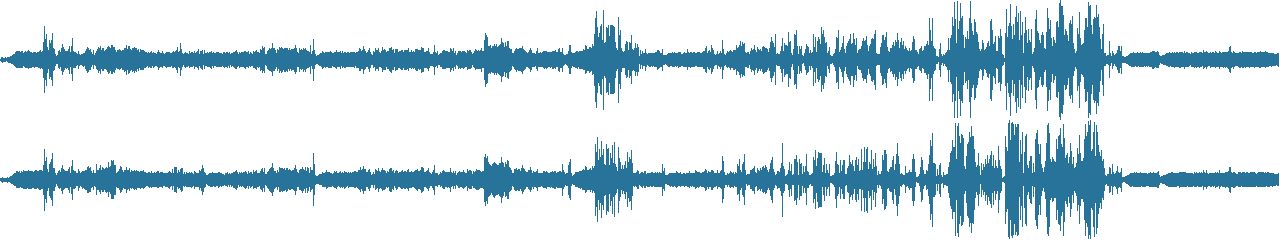
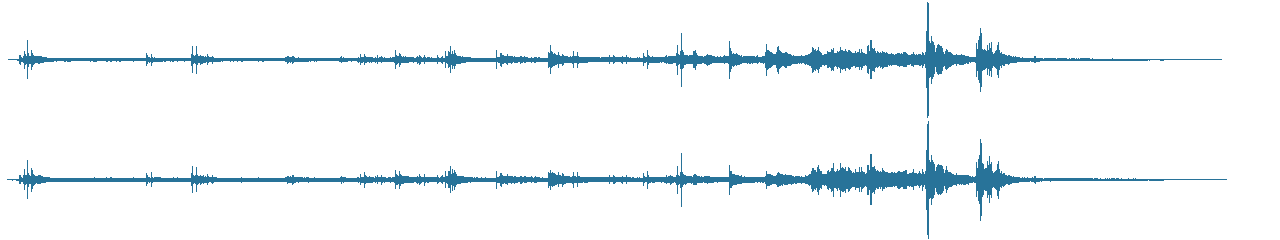
Still working on the audio player

Changed region(s): [[0.0, 0.525, 1.0, 0.9917], [0.0, 0.0292, 1.0, 0.4667]]

diff --git a/AudioPlayer.py b/AudioPlayer.py
@@ -55,33 +55,43 @@ class SoundPlayer(QRunnable):
             self.is_remote = True
             self.is_segment = True
 
-    def new_sound_local(self):
+    def handle_new_sound_local(self):
         self.path = self.current_result.path
         self.preload(self.current_result, self.pixel_time_conversion_rate)
+        self.play()
 
-    def new_sound_remote(self, path, is_segment=False):
+    def handle_new_sound_remote(self, path):
         self.path = path
-        self.preload(self.current_result, self.pixel_time_conversion_rate, is_segment)
+        self.preload(self.current_result, self.pixel_time_conversion_rate)
+        self.play()
 
     def handle(self, result, conversion_rate, path=None, segment=False):
         if segment:
-            print('segment')
-            self.path = path
-            self.preload(result, conversion_rate, segment)
-            self.play()
-        if not self.current_result == result or not self.started:
+            self.handle_segment(path, result, conversion_rate)
+        elif not self.current_result == result or not self.started:
             self.pixel_time_conversion_rate = conversion_rate
             self.current_result = result
             if isinstance(result, SearchResults.Local):
-                self.new_sound_local()
+                self.handle_new_sound_local()
             else:
-                self.new_sound_remote(path, segment)
+                self.handle_new_sound_remote(path)
         elif self.ended and self.current_result == result:
+            print(self.current_result, result, self.ended)
             self.restart()
         elif self.is_paused:
             self.unpause()
         else:
             self.pause()
+
+    def handle_segment(self, path, result, conversion_rate):
+        self.pixel_time_conversion_rate = conversion_rate
+        self.current_result = result
+        self.path = path
+        self.preload(self.current_result, self.pixel_time_conversion_rate, True)
+        self.play()
+
+    def handle_download_complete(self, path):
+        self.reload(path=path, is_complete=True)
 
     @pyqtSlot()
     def run(self):
@@ -95,8 +105,7 @@ class SoundPlayer(QRunnable):
                 stop_time = time.time()
                 time_elapsed = (stop_time - start_time)*1000
                 if self.is_playing:
-                    self.current_time = self.current_time + time_elapsed
-                    self.signals.time_changed.emit(self.current_time)
+                    self.set_current_time(self.current_time + time_elapsed)
                 if self.current_time >= self.length:
                     self.ended = True
             if not self.is_playing or self.ended:
@@ -119,9 +128,17 @@ class SoundPlayer(QRunnable):
         return buf.value
 
     def restart(self):
-        self.pause()
-        self.goto(0)
-        self.play()
+        print('restart')
+        if self.filetype in self.windll_list:
+            self.stop()
+            self.load_into_windll()
+            self.goto(0)
+            self.play()
+        else:
+            self.stop()
+            self.reload_into_pygame()
+            self.goto(0)
+            self.play()
 
     def preload(self, result, conversion_rate, segment=False):
         busy = self.get_busy()
@@ -129,10 +146,10 @@ class SoundPlayer(QRunnable):
             self.stop()
         if not self.is_remote:
             self.load(self.path, result.duration, conversion_rate, result.sample_rate)
-            self.play()
         else:
             f = TinyTag.get(self.path)
             sample_rate = f.samplerate
+            print(sample_rate)
             if segment:
                 print('segment 2')
                 self.segment_length = f.duration
@@ -145,111 +162,129 @@ class SoundPlayer(QRunnable):
     def load(self, path, length, pixel_time_rate, sample_rate, block=False, current_time=0):
         self.path = path
         if current_time > 0:
-            self.current_time = current_time
+            self.set_current_time(current_time)
         else:
-            self.current_time = 0
+            self.set_current_time(0)
             self.signals.reset_cursor.emit()
         self.filetype = os.path.splitext(path)[1].lower()
-        self.alias = 'playsound_' + str(random())
         self.length = length
         self.pixel_time_conversion_rate = pixel_time_rate
         if self.filetype in self.windll_list:
-            from time import sleep
-
-            print('open "' + self.path + '" alias', self.alias)
-            self.win_command('open "' + self.path + '" alias', self.alias)
-            self.win_command('set', self.alias, 'time format milliseconds')
-            durationInMS = self.win_command('status', self.alias, 'length')
-
-            if block:
-                sleep(float(durationInMS) / 1000.0)
+            self.load_into_windll(block)
         elif self.filetype in self.pygame_list:
-            frequency = int(sample_rate)
-            pygame.mixer.quit()
-            pygame.mixer.init(frequency, -16, 2, 512)
-            try:
-                pygame.mixer.music.load(self.path)
-            except pygame.error:
-                self.signals.error.emit("Couldn't play this file!  It may be that it's corrupted.  "
-                                        "Try downloading it again.")
+            self.load_into_pygame(sample_rate)
+
+    def load_into_windll(self, block=False):
+        from time import sleep
+
+        self.alias = 'playsound_' + str(random())
+        print('open "' + self.path + '" alias', self.alias)
+        self.win_command('open "' + self.path + '" alias', self.alias)
+        self.win_command('set', self.alias, 'time format milliseconds')
+        durationInMS = self.win_command('status', self.alias, 'length')
+
+        if block:
+            sleep(float(durationInMS) / 1000.0)
+
+    def load_into_pygame(self, sample_rate):
+        frequency = int(sample_rate)
+        pygame.mixer.quit()
+        pygame.mixer.init(frequency, -16, 2, 512)
+        try:
+            pygame.mixer.music.load(self.path)
+        except pygame.error:
+            self.signals.error.emit("Couldn't play this file!  It may be that it's corrupted.  "
+                                    "Try downloading it again.")
 
     def reload(self, block=False, path='', is_complete=False):
+        print('reloaded')
+        self.reloaded = True
         if path != '':
             self.path = path
         if self.filetype in self.windll_list:
-            from time import sleep
-
-            print('open "' + self.path + '" alias', self.alias)
-            self.win_command('open "' + self.path + '" alias', self.alias)
-            self.win_command('set', self.alias, 'time format milliseconds')
-            durationInMS = self.win_command('status', self.alias, 'length')
-
-            if block:
-                sleep(float(durationInMS) / 1000.0)
+            self.reload_into_windll(block)
         elif self.filetype in self.pygame_list:
-            if is_complete:
-                self.is_segment = False
-            pygame.mixer.init()
+            self.reload_into_pygame(is_complete)
+
+    def reload_into_windll(self, block=False):
+        from time import sleep
+
+        print('open "' + self.path + '" alias', self.alias)
+        self.win_command('open "' + self.path + '" alias', self.alias)
+        self.win_command('set', self.alias, 'time format milliseconds')
+        durationInMS = self.win_command('status', self.alias, 'length')
+
+        if block:
+            sleep(float(durationInMS) / 1000.0)
+
+    def reload_into_pygame(self, is_complete=False):
+        if is_complete and self.is_segment:
+            self.is_segment = False
+        was_playing = False
+        if self.is_playing:
+            self.pause()
+            was_playing = True
+        pygame.mixer.init()
+        try:
             pygame.mixer.music.load(self.path)
-            if self.outside_of_downloaded_range_playing:
-                self.outside_of_downloaded_range_playing = False
-                self.play()
-        self.reloaded = True
+        except pygame.error:
+            self.signals.error.emit("Couldn't play this file!  It may be that it's corrupted.  "
+                                    "Try downloading it again.")
+        if was_playing:
+            self.outside_of_downloaded_range_playing = False
+            self.play()
 
     def pause(self):
+        print('paused')
         if self.filetype in self.windll_list:
             self.win_command('pause', self.alias)
         elif self.filetype in self.pygame_list:
             pygame.mixer.music.pause()
-            # self.current_time = time.time() - self.time_started + self.current_time
         self.is_playing = False
         self.is_paused = True
 
+    def play_from_pygame(self, play_from):
+        if not self.started:
+            try:
+                pygame.mixer.music.play(start=play_from / 1000)
+            except Exception as e:
+                print(e)
+            self.started = True
+        elif play_from > 0:
+            try:
+                if self.filetype == '.mp3':
+                    pygame.mixer.music.rewind()
+                pygame.mixer.music.set_pos(play_from / 1000)
+                pygame.mixer.music.unpause()
+            except pygame.error:
+                print('error')
+                self.reload()
+                pygame.mixer.music.play(start=play_from / 1000)
+        else:
+            pygame.mixer.music.unpause()
+
+    def play_from_windll(self, play_from):
+        if not self.started:
+            durationInMS = self.win_command('status', self.alias, 'length')
+            self.win_command('play', self.alias, 'from 0 to', durationInMS.decode())
+            self.started = True
+        if play_from >= 0:
+            durationInMS = self.win_command('status', self.alias, 'length')
+            self.win_command('play', self.alias, 'from', str(round(play_from)), 'to', durationInMS.decode())
+        else:
+            self.win_command('play', self.alias)
+
     def play(self, play_from=-1):
+        print('played')
         if play_from > 0:
-            self.current_time = play_from
+            self.set_current_time(play_from)
         elif self.time_changed_time_pause or self.reloaded:
             play_from = self.current_time
             self.reloaded = False
         if self.filetype in self.windll_list:
-            if not self.started:
-                durationInMS = self.win_command('status', self.alias, 'length')
-                self.win_command('play', self.alias, 'from 0 to', durationInMS.decode())
-                self.started = True
-            if play_from >= 0:
-                durationInMS = self.win_command('status', self.alias, 'length')
-                self.win_command('play', self.alias, 'from', str(round(play_from)), 'to', durationInMS.decode())
-            else:
-                self.win_command('play', self.alias)
+            self.play_from_windll(play_from)
         elif self.filetype in self.pygame_list:
-            if not self.started:
-                try:
-                    if play_from > 0:
-                        pygame.mixer.music.play(start=play_from/1000)
-                    else:
-                        print('gakdg')
-                        pygame.mixer.music.play()
-                except Exception as e:
-                    print(e)
-                self.started = True
-            elif play_from > 0:
-                try:
-                    if self.filetype == '.mp3':
-                        pygame.mixer.music.rewind()
-                        pygame.mixer.music.set_pos(play_from/1000)
-                        pygame.mixer.music.unpause()
-                    elif self.filetype == '.ogg':
-                        pygame.mixer.music.set_pos(play_from / 1000)
-                        pygame.mixer.music.unpause()
-                    elif self.filetype == '.flac':
-                        pygame.mixer.music.set_pos(play_from/1000)
-                        pygame.mixer.music.unpause()
-                except pygame.error:
-                    self.reload()
-                    pygame.mixer.music.play(start=play_from / 1000)
-            else:
-                pygame.mixer.music.unpause()
-
+            self.play_from_pygame(play_from)
         self.ended = False
         self.time_started = time.time()
         self.is_playing = True
@@ -277,17 +312,22 @@ class SoundPlayer(QRunnable):
         else:
             return False
 
+    def set_current_time(self, current_time):
+        self.signals.time_changed.emit(current_time)
+        self.current_time = current_time
+
     def stop(self):
         if self.filetype in self.windll_list:
             self.win_command('stop', self.alias)
         elif self.filetype in self.pygame_list:
             pygame.mixer.music.stop()
         self.is_playing = False
-        self.current_time = 0
+        self.set_current_time(0)
         self.started = False
 
     def goto(self, position):
         goto = position/self.pixel_time_conversion_rate
+        print(goto)
         if self.is_segment and goto > self.segment_length:
             self.outside_of_downloaded_range = True
             if self.is_playing or not self.started:
@@ -301,8 +341,7 @@ class SoundPlayer(QRunnable):
         elif self.is_paused:
             if not self.outside_of_downloaded_range_playing:
                 self.time_changed_time_pause = True
-        self.current_time = goto
-        self.signals.time_changed.emit(self.current_time)
+        self.set_current_time(goto)
 
 
 class WaveformSlider(QSlider):

diff --git a/main.py b/main.py
@@ -179,12 +179,10 @@ class Gui(GUI.Ui_MainWindow):
 
     def downloaded_ready_for_preview(self, sound_path):
         # self.make_waveform(sound_path)
-        self.audio_player.handle(self.current_result, self.pixel_time_conversion_rate, sound_path, segment=True)
+        self.audio_player.handle_segment(sound_path, self.current_result, self.pixel_time_conversion_rate)
 
     def download_done(self, path):
-        self.audio_player.pause()
-        self.audio_player.reload(path=path, is_complete=True)
-        self.audio_player.play()
+        self.audio_player.handle_download_complete(path)
         self.make_waveform(path)
 
     def make_waveform(self, sound_path):

diff --git a/Wave.py b/Wave.py
@@ -5,6 +5,6 @@ import os
 def make_waveform(path):
     ffmpeg_path = os.path.dirname(os.path.realpath(__file__)) + '/ffmpeg/ffmpeg/bin'
     file_name = 'waveform'
-    subprocess.call(ffmpeg_path + '/ffmpeg -i "' + path + '" -filter_complex "compand,showwavespic=s=1280x240:'
+    subprocess.call(ffmpeg_path + '/ffmpeg -i "' + path + '" -filter_complex "showwavespic=s=1280x240:'
                                                           'split_channels=1: colors=#287399" -frames:v 1 -y Waveforms/'
                     + file_name + '.png', stderr=subprocess.DEVNULL, stdout=subprocess.DEVNULL)

diff --git a/LocalFileHandler.py b/LocalFileHandler.py
@@ -86,4 +86,4 @@ class LocalSearch(QRunnable):
             self.signals.finished.emit()
 
 
-add_to_index('c:/Users/smith/downloads')
+add_to_index('c:/Users/Josh/downloads')
